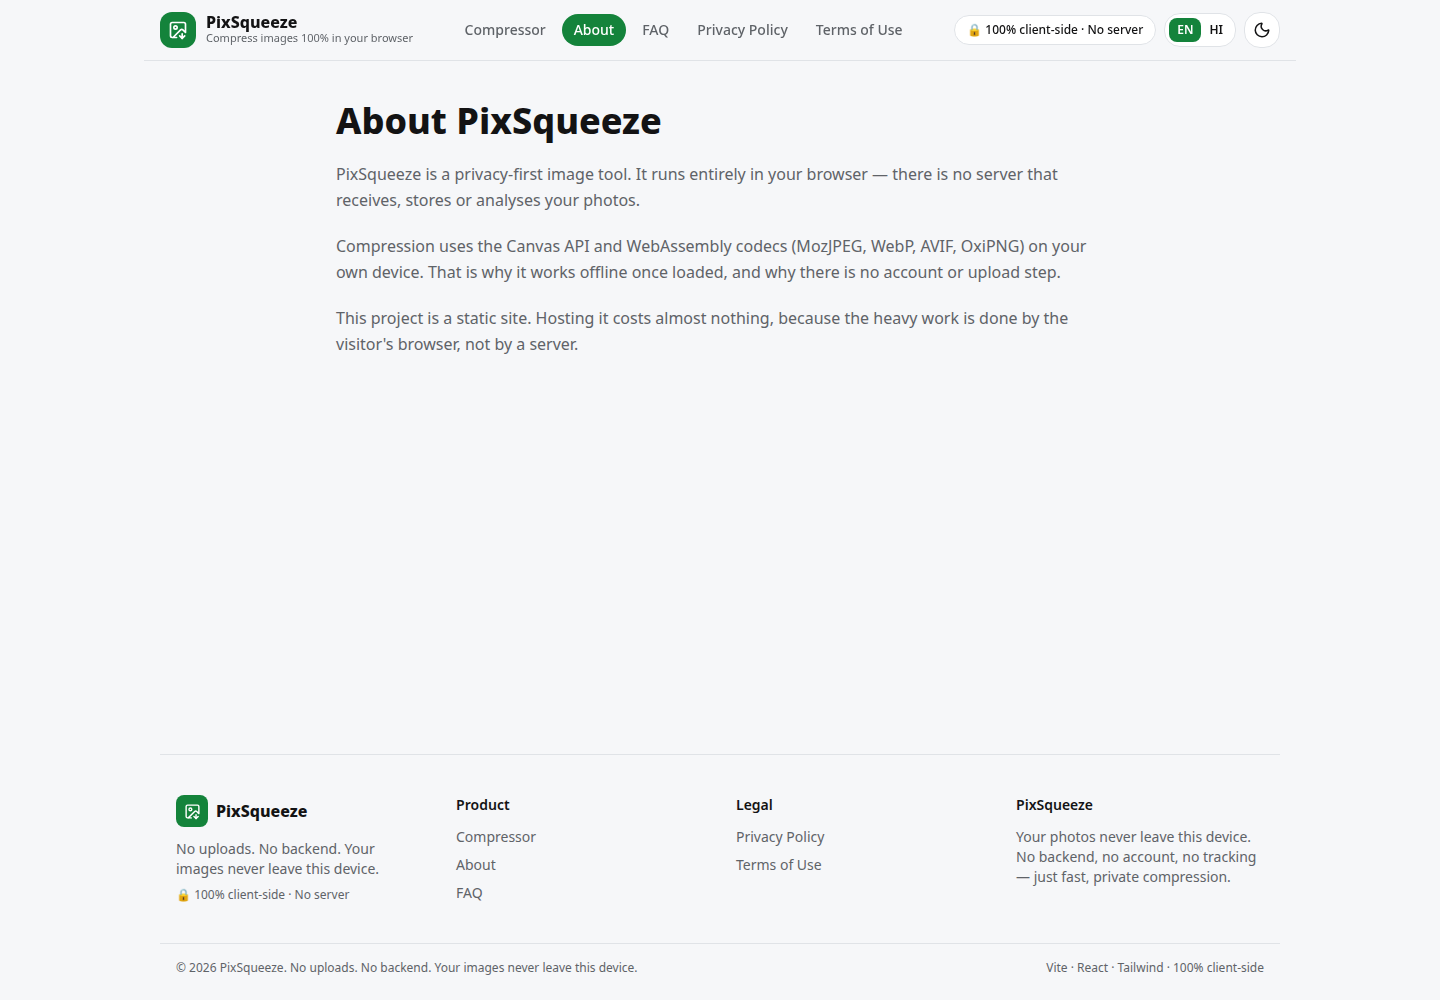
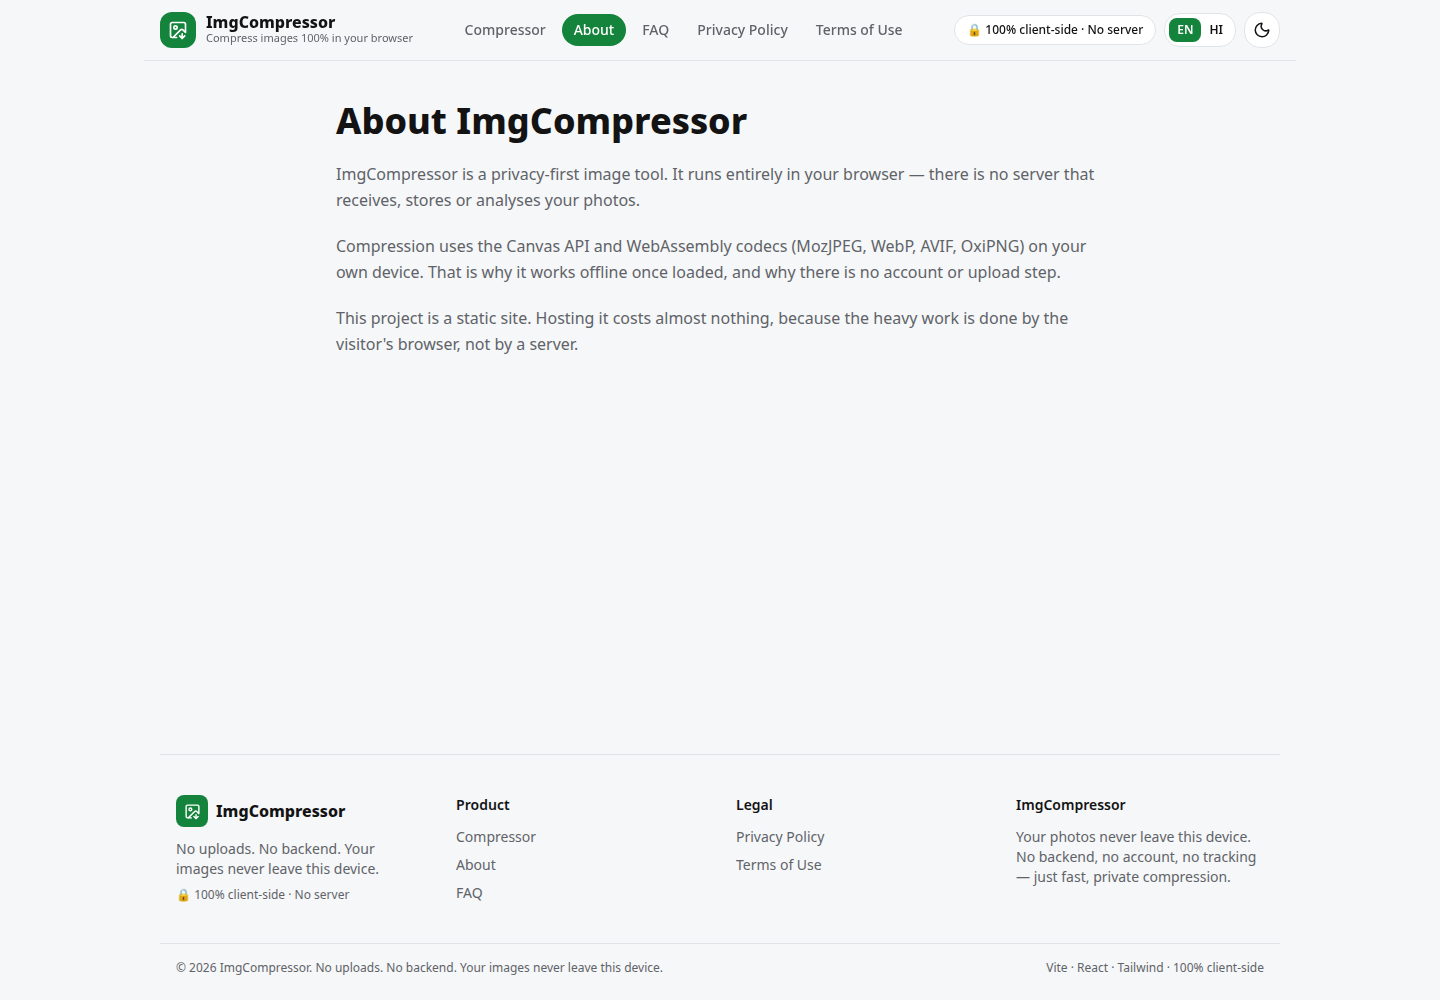
Rename site to ImgCompressor, retake screenshots

diff --git a/index.html b/index.html
@@ -3,7 +3,7 @@
   <head>
     <meta charset="UTF-8" />
     <meta name="viewport" content="width=device-width, initial-scale=1.0" />
-    <meta name="description" content="PixSqueeze — compress images 100% in your browser. No uploads, no backend, no tracking." />
+    <meta name="description" content="ImgCompressor — compress images 100% in your browser. No uploads, no backend, no tracking." />
     <meta name="theme-color" content="#0f1115" />
     <link rel="icon" type="image/svg+xml" href="/favicon.svg" />
     <link rel="preconnect" href="https://fonts.googleapis.com" />
@@ -12,12 +12,12 @@
     <script>
       // Prevent theme flash: localStorage > system preference > dark default (Spotify-style dark first)
       try {
-        var t = localStorage.getItem('pixsqueeze-theme');
+        var t = localStorage.getItem('imgcompressor-theme');
         if (!t) t = window.matchMedia('(prefers-color-scheme: light)').matches ? 'light' : 'dark';
         document.documentElement.setAttribute('data-theme', t);
       } catch (e) {}
     </script>
-    <title>PixSqueeze — Client-Side Image Compressor</title>
+    <title>ImgCompressor — Client-Side Image Compressor</title>
   </head>
   <body>
     <div id="root"></div>

diff --git a/src/components/Footer.tsx b/src/components/Footer.tsx
@@ -15,7 +15,7 @@ export default function Footer() {
         </div>
         <nav aria-label="Product"><p className="mb-3 text-sm font-semibold">{t('footerProduct')}</p><ul className="muted space-y-2 text-sm"><li><Link to="/">{t('navHome')}</Link></li><li><Link to="/about">{t('navAbout')}</Link></li><li><Link to="/faq">{t('navFaq')}</Link></li></ul></nav>
         <nav aria-label="Legal"><p className="mb-3 text-sm font-semibold">{t('footerLegal')}</p><ul className="muted space-y-2 text-sm"><li><Link to="/privacy">{t('navPrivacy')}</Link></li><li><Link to="/terms">{t('navTerms')}</Link></li></ul></nav>
-        <div><p className="mb-3 text-sm font-semibold">PixSqueeze</p><p className="muted text-sm">{t('heroSub')}</p></div>
+        <div><p className="mb-3 text-sm font-semibold">ImgCompressor</p><p className="muted text-sm">{t('heroSub')}</p></div>
       </div>
       <div className="mx-auto flex max-w-6xl flex-col items-center justify-between gap-2 px-4 pb-6 text-xs sm:flex-row" style={{ borderTop: '1px solid var(--border)', paddingTop: 16 }}>
         <span className="muted">© {year} {t('brand')}. {t('footerNote')}</span>

diff --git a/src/components/Header.tsx b/src/components/Header.tsx
@@ -16,7 +16,7 @@ export default function Header() {
   const { t, i18n } = useTranslation();
   const { theme, setTheme } = useCompressorStore();
   const [open, setOpen] = useState(false);
-  const changeLng = (lng: string) => { void i18n.changeLanguage(lng); localStorage.setItem('pixsqueeze-lng', lng); };
+  const changeLng = (lng: string) => { void i18n.changeLanguage(lng); localStorage.setItem('imgcompressor-lng', lng); };
   const linkCls = ({ isActive }: { isActive: boolean }) =>
     `rounded-full px-3 py-1.5 text-sm font-medium ${isActive ? 'text-white' : 'muted'}`;
   return (

diff --git a/src/lib/compress.ts b/src/lib/compress.ts
@@ -94,7 +94,7 @@ export async function compressImage(file: File, opts: CompressOptions): Promise<
   } catch (err) {
     // WASM failed (e.g. blocked) — fall back to the native canvas encoder
     // rather than failing the whole job. PNG has no quality knob in canvas.
-    console.warn(`[pixsqueeze] WASM ${opts.format} failed, canvas fallback`, err);
+    console.warn(`[imgcompressor] WASM ${opts.format} failed, canvas fallback`, err);
     return imageDataToBlob(raw, FORMAT_MIME[opts.format], opts.format === 'png' ? 1 : q);
   }
   throw new Error('Unknown format');

diff --git a/src/pages/HomePage.tsx b/src/pages/HomePage.tsx
@@ -29,7 +29,7 @@ export default function HomePage() {
   const downloadAllZip = async () => {
     const done = s.jobs.filter((j) => j.resultUrl && j.resultName);
     const files = await Promise.all(done.map(async (j) => ({ name: j.resultName!, blob: await fetch(j.resultUrl!).then((r) => r.blob()) })));
-    if (files.length) void downloadAsZip(files, 'pixsqueeze-compressed.zip');
+    if (files.length) void downloadAsZip(files, 'imgcompressor-compressed.zip');
   };
   return (
     <div>

diff --git a/vite.config.ts b/vite.config.ts
@@ -12,8 +12,8 @@ export default defineConfig({
       registerType: 'autoUpdate',
       includeAssets: ['favicon.svg'],
       manifest: {
-        name: 'PixSqueeze',
-        short_name: 'PixSqueeze',
+        name: 'ImgCompressor',
+        short_name: 'ImgCompressor',
         description: 'Compress images 100% in your browser. No uploads, no backend.',
         theme_color: '#0f1115',
         background_color: '#0f1115',

diff --git a/src/lib/i18n.ts b/src/lib/i18n.ts
@@ -7,7 +7,7 @@ import hi from '../locales/hi.json';
 // Add a new locale by adding its JSON here + one entry in LanguageSwitcher.
 void i18n.use(initReactI18next).init({
   resources: { en: { translation: en }, hi: { translation: hi } },
-  lng: localStorage.getItem('pixsqueeze-lng') || 'en',
+  lng: localStorage.getItem('imgcompressor-lng') || 'en',
   fallbackLng: 'en',
   interpolation: { escapeValue: false },
 });

diff --git a/src/store/useCompressorStore.ts b/src/store/useCompressorStore.ts
@@ -55,7 +55,7 @@ export const useCompressorStore = create<State>((set) => ({
   })),
   setTheme: (theme) => {
     document.documentElement.setAttribute('data-theme', theme);
-    localStorage.setItem('pixsqueeze-theme', theme);
+    localStorage.setItem('imgcompressor-theme', theme);
     set({ theme });
   },
   updateJob: (id, p) => set((s) => ({ jobs: s.jobs.map((j) => (j.id === id ? { ...j, ...p } : j)) })),

diff --git a/README.md b/README.md
@@ -1,4 +1,4 @@
-# PixSqueeze — Client-Side Image Compressor
+# ImgCompressor — Client-Side Image Compressor
 
 > Random placeholder name — rename it in `package.json`, `index.html`,
 > `vite.config.ts` (PWA manifest) and `src/locales/*.json` whenever you like.
@@ -40,7 +40,7 @@ The workflow is already in `.github/workflows/deploy-cloudflare-pages.yml`.
 It builds on push to `main` and deploys `dist/` with Wrangler.
 
 1. Create a Cloudflare Pages project (or let the first deploy create it —
-   set the project name in the workflow, currently `pixsqueeze`).
+   set the project name in the workflow, currently `imgcompressor`).
 2. In GitHub: repo → Settings → Secrets and variables → Actions, add:
    - `CLOUDFLARE_API_TOKEN`
    - `CLOUDFLARE_ACCOUNT_ID`

diff --git a/TEST_REPORT.md b/TEST_REPORT.md
@@ -1,7 +1,7 @@
-# PixSqueeze — Test Report
+# ImgCompressor — Test Report
 
 Date: 2026-11-03 (build verified on this machine)
-App: PixSqueeze, 100% client-side, no backend
+App: ImgCompressor, 100% client-side, no backend
 
 ## 1. Build & type check — PASS
 
@@ -18,7 +18,7 @@ App: PixSqueeze, 100% client-side, no backend
 | Route | Result |
 |---|---|
 | `/` (Compressor) | 200, H1 "Smaller images. Zero uploads." |
-| `/about` | 200, H1 "About PixSqueeze" |
+| `/about` | 200, H1 "About ImgCompressor" |
 | `/privacy` | 200, H1 "Privacy Policy" |
 | `/terms` | 200, H1 "Terms of Use" |
 | `/faq` | 200, H1 "Frequently Asked Questions" |
